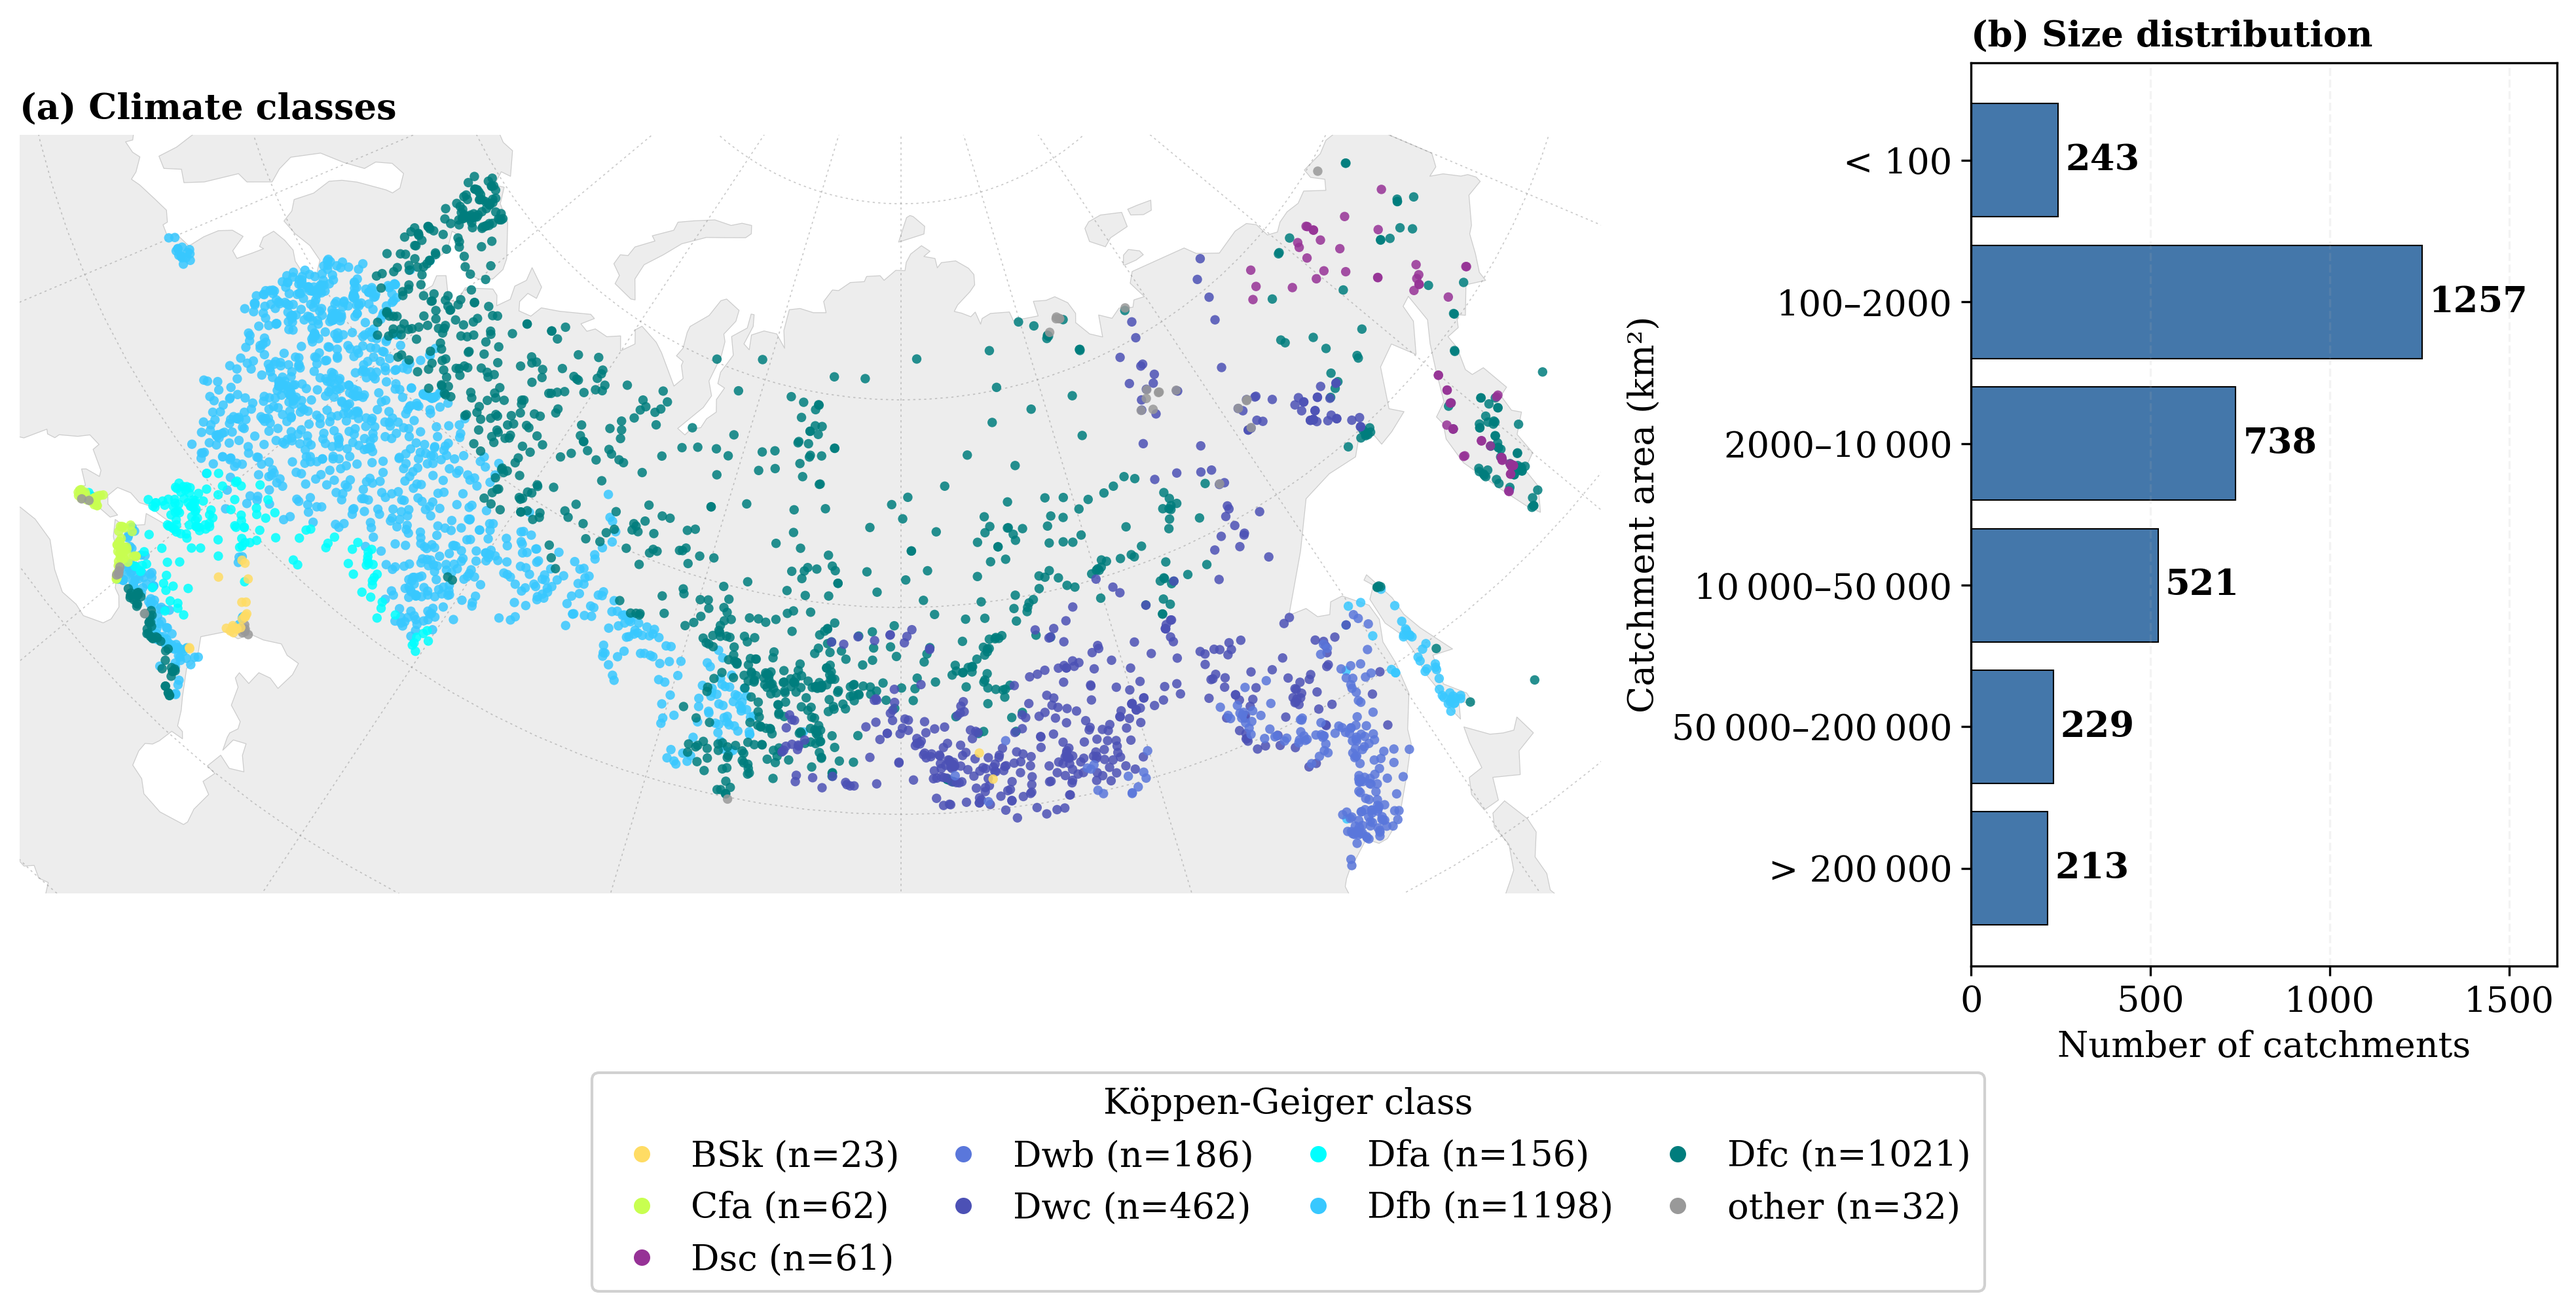
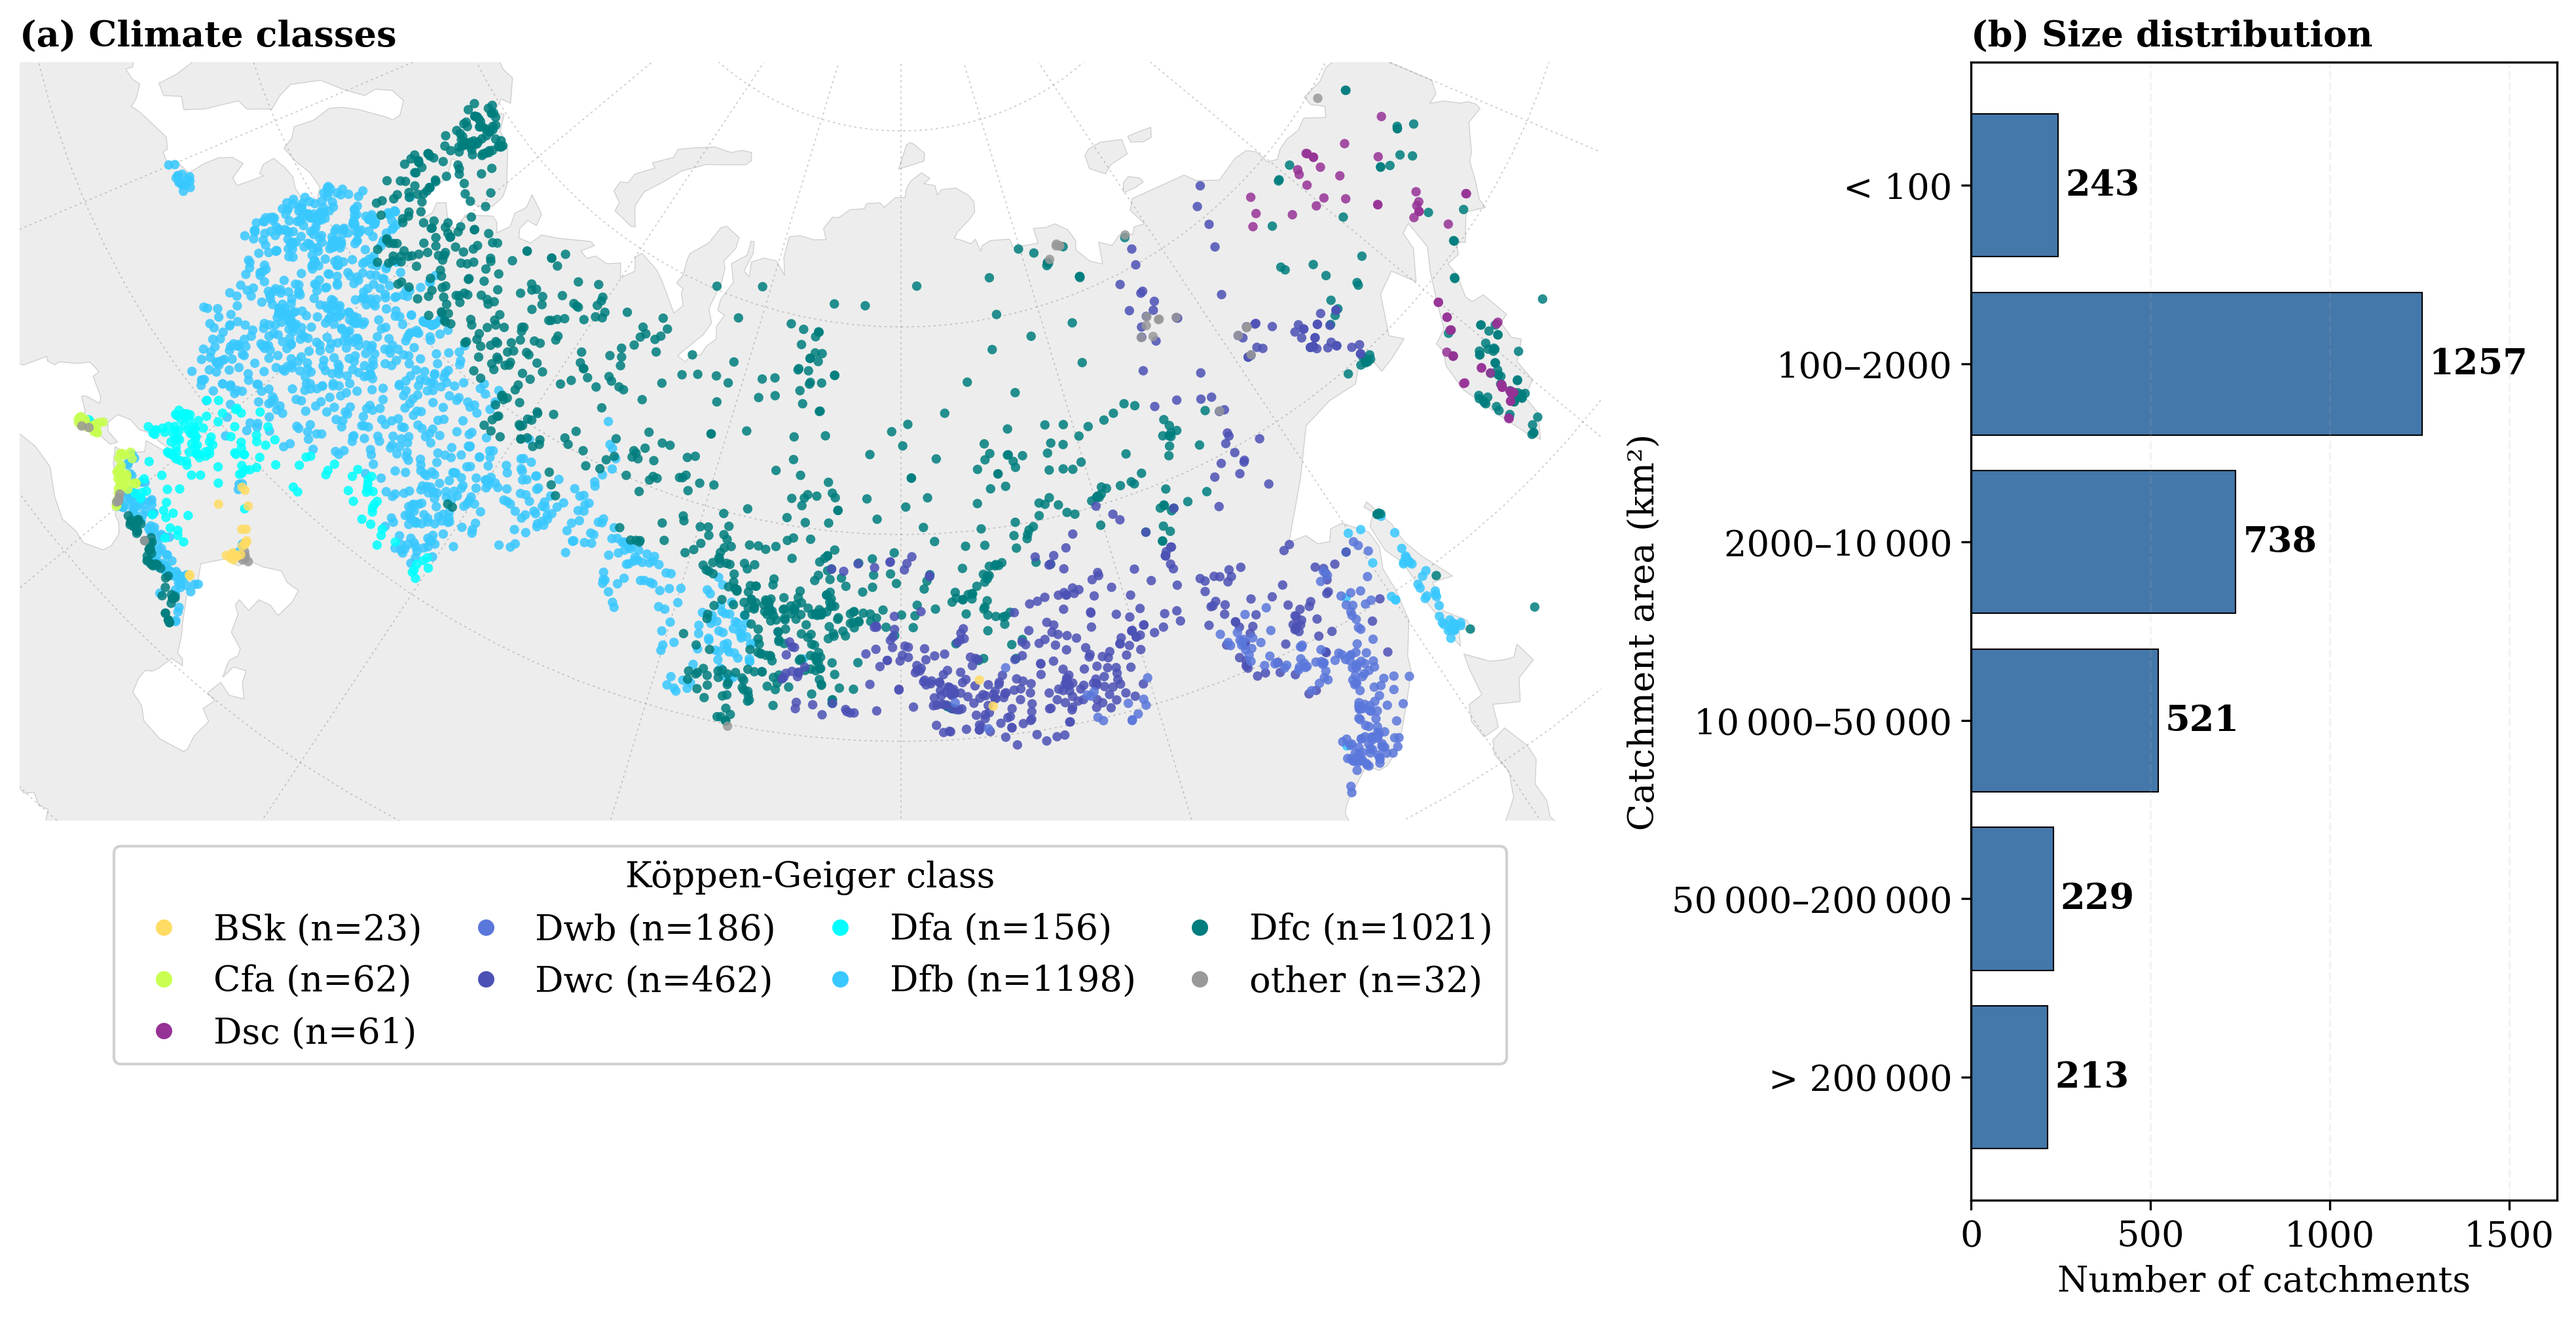
fix(figs): anchor aspect-locked map north, axes-level legend; submodule bump
Claude-Session: https://claude.ai/code/session_01Cpx3dUV4LhhdShENRW3yTV

diff --git a/scripts/regenerate_gauge_network_figure.py b/scripts/regenerate_gauge_network_figure.py
@@ -213,6 +213,10 @@ def build_figure(gauge: gpd.GeoDataFrame, size_counts: pd.Series) -> plt.Figure:
 
     ax_map.axis("off")
     _set_extent_from_data(ax_map, gauge, pad=0.04)  # tighter than the 0.08 default
+    # The aspect-locked GeoAxes is height-bound, so constrained_layout centers it
+    # vertically in its cell and its title sags below panel (b)'s; anchoring north
+    # aligns both panel tops and frees the space below the map for the legend.
+    ax_map.set_anchor("N")
     from src.plots.paper_maps import _add_graticule
 
     _add_graticule(ax_map)
@@ -285,13 +289,12 @@ def build_figure(gauge: gpd.GeoDataFrame, size_counts: pd.Series) -> plt.Figure:
             )
         )
     # The legend sits below the map, outside the frame, so it cannot cover the
-    # southwest gauge cluster it labels (round-6 editor m7).
-    fig = ax_map.get_figure()
-    # Font floor: legend text bumped 8->13pt; ncol dropped 6->4 so the wider entries
-    # (~1.6x) still fit below the map instead of overflowing the figure width.
-    fig.legend(
+    # southwest gauge cluster it labels (round-6 editor m7). Anchored to the map
+    # axes (not the figure) so it centers under the panel it describes.
+    ax_map.legend(
         handles=handles,
-        loc="outside lower center",
+        loc="upper center",
+        bbox_to_anchor=(0.5, -0.01),
         fontsize=13,
         framealpha=0.9,
         ncol=4,
